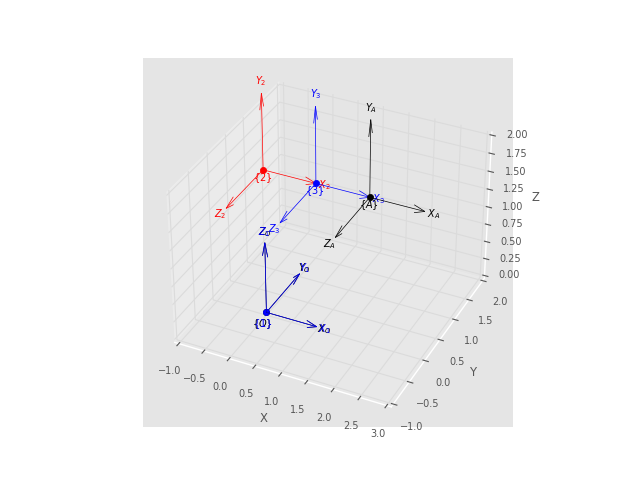
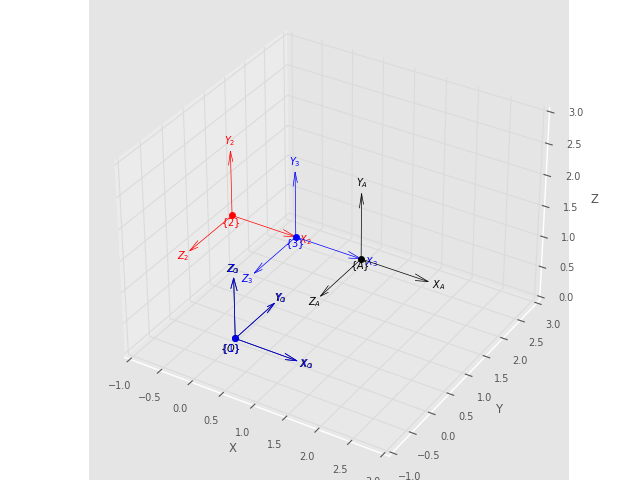
Adição print Questão 2

diff --git a/AB1_Part2.py b/AB1_Part2.py
@@ -47,8 +47,8 @@ def Q2(L1 = 1, L2 = 1, L3 = 1, L4 = 1):
     ax.set_zlabel('Z')
 
     ax.set_xlim([-1, 3])
-    ax.set_ylim([-1, 2])
-    ax.set_zlim([0, 2])
+    ax.set_ylim([-1, 3])
+    ax.set_zlim([0, 3])
 
     O = transl(0, 0, 0)
     J1 = transl(0, 0,0) @ trotx(0)
